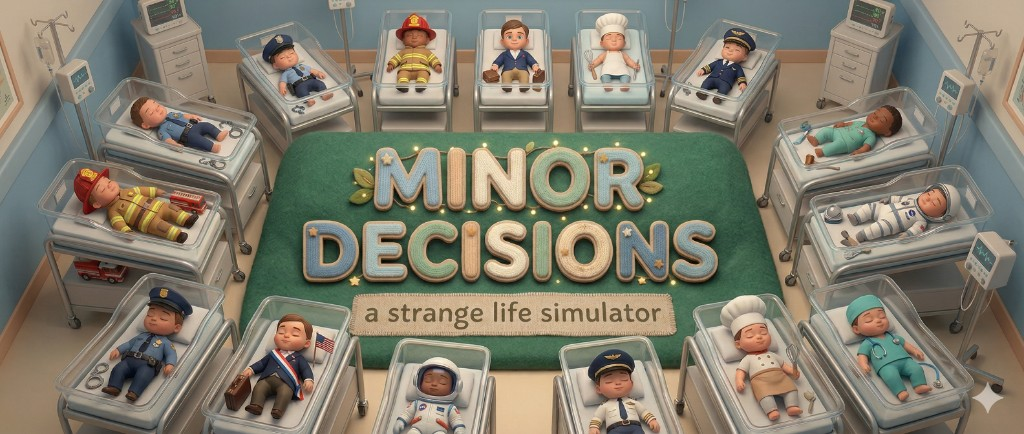
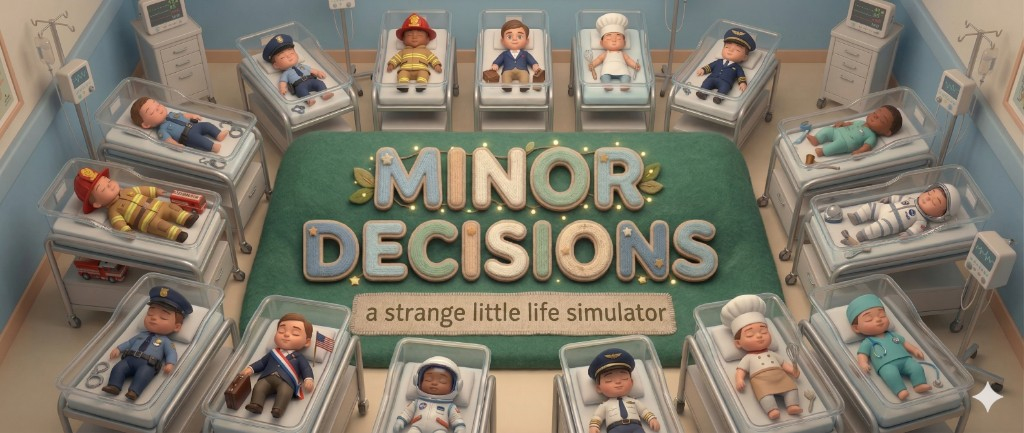
Refresh the landing title artwork.
Swap the homepage hero image to the updated title art while keeping the image-only landing layout intact.

Made-with: Cursor

diff --git a/game.js b/game.js
@@ -1,5 +1,5 @@
 const PLAYABLE_AGES = [0, 5, 10, 12, 15, 16, 17];
-const BUILD_NUMBER = 57;
+const BUILD_NUMBER = 58;
 const DEFAULT_PHYSICAL_DESCRIPTION = 'newborn baby with soft features';
 const FALLBACK_NEWBORN_POOL = [
     {
